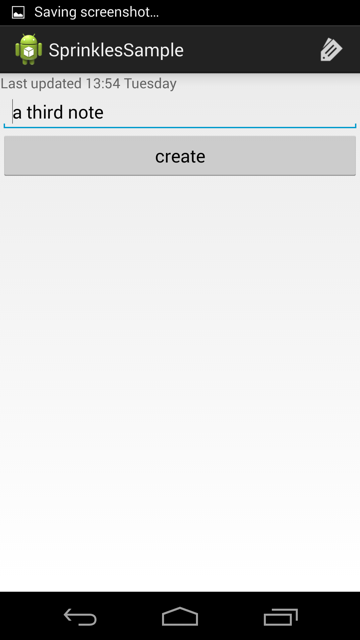
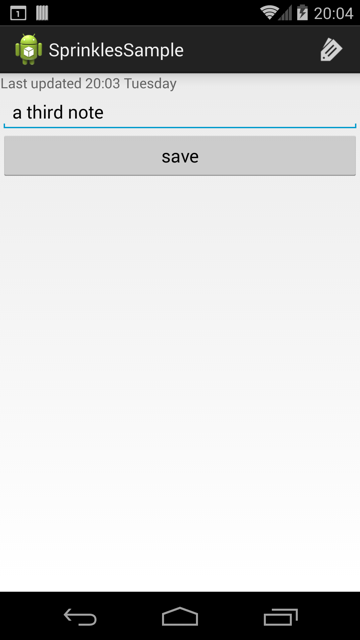
Site updated at 2013-12-17 19:09:38 UTC

diff --git a/blog/2013/12/18/android-with-sprinkles/index.html b/blog/2013/12/18/android-with-sprinkles/index.html
@@ -89,7 +89,7 @@
   </header>
 
 
-<div class="entry-content"><p><a href="https://github.com/emilsjolander/sprinkles">Sprinkles</a> is an android library I made because I was tired of all the boilerplate involved in dealing with SQLite on android. The goal with sprinkles is to remove as much boilerplate as possible without limiting any functionality, this is a crucial point. I find that most ORMs try to abstract away SQL which often leads to unoptimized queries and ugly hacks to get the more uncommon queries to work. Sprinkles lets you do what SQL is great for, querying data. Sprinkles will however help you with the tedious parts like inserting data and packing data out of a cursor.</p>
+<div class="entry-content"><p><a href="https://github.com/emilsjolander/sprinkles">Sprinkles</a> is an android library I made because I was tired of all the boilerplate involved in dealing with SQLite on android. The goal with sprinkles is to remove as much boilerplate as possible without limiting any functionality, this is a crucial point. I find that most ORMs try to abstract SQL in a way which often leads to unoptimized queries and ugly hacks to get the more uncommon queries to work. Sprinkles lets you do what SQL is great for, querying data. Sprinkles will however help you with the tedious parts like inserting data and packing data out of a cursor.</p>
 
 <p>Below I will give you a basic intro into using sprinkles by building a &hellip; note taking app! Nothing new and exiting, I know! But it&rsquo;s a great sample app for showing the power of sprinkles. There&rsquo;s a lot of the api that I don&rsquo;t mention in this post so please head over to github and read the full documentation if you have any questions after reading this.</p>
 
@@ -657,7 +657,7 @@
 
 <h1>Creating notes</h1>
 
-<p>Creating notes is done in the <a href="https://github.com/emilsjolander/sprinkles/tree/master/sample/src/se/emilsjolander/sprinkles/CreateNoteActivity.java"><code>CreateNoteActivity</code></a> class. This is just a regular activity with an edittext and a button for saving the note. Below we set the <code>OnClickListener</code> of the create button. As you can see saving a note is incredibly simple, just call <code>save()</code> after setting the properties you want to set. There is also a <code>saveAsync()</code> method which saves the model in the background and a version of <code>saveAsync()</code> which takes a callback to notify you when the save has completed.</p>
+<p>Creating notes is done in the <a href="https://github.com/emilsjolander/sprinkles/tree/master/sample/src/se/emilsjolander/sprinkles/CreateNoteActivity.java"><code>CreateNoteActivity</code></a> class. This is just a regular activity with an edittext and a button for saving the note. Below we set the <code>OnClickListener</code> of the save button. As you can see saving a note is incredibly simple, just call <code>save()</code> after setting the properties you want to set. There is also a <code>saveAsync()</code> method which saves the model in the background and a version of <code>saveAsync()</code> which takes a callback to notify you when the save has completed.</p>
 
 <figure class='code'><figcaption><span></span></figcaption><div class="highlight"><table><tr><td class="gutter"><pre class="line-numbers"><span class='line-number'>1</span>
 <span class='line-number'>2</span>
@@ -668,7 +668,7 @@
 <span class='line-number'>7</span>
 <span class='line-number'>8</span>
 <span class='line-number'>9</span>
-</pre></td><td class='code'><pre><code class='java'><span class='line'><span class="n">findViewById</span><span class="o">(</span><span class="n">R</span><span class="o">.</span><span class="na">id</span><span class="o">.</span><span class="na">create</span><span class="o">).</span><span class="na">setOnClickListener</span><span class="o">(</span><span class="k">new</span> <span class="n">OnClickListener</span><span class="o">()</span> <span class="o">{</span>
+</pre></td><td class='code'><pre><code class='java'><span class='line'><span class="n">findViewById</span><span class="o">(</span><span class="n">R</span><span class="o">.</span><span class="na">id</span><span class="o">.</span><span class="na">save</span><span class="o">).</span><span class="na">setOnClickListener</span><span class="o">(</span><span class="k">new</span> <span class="n">OnClickListener</span><span class="o">()</span> <span class="o">{</span>
 </span><span class='line'>          
 </span><span class='line'>          <span class="nd">@Override</span>
 </span><span class='line'>          <span class="kd">public</span> <span class="kt">void</span> <span class="nf">onClick</span><span class="o">(</span><span class="n">View</span> <span class="n">v</span><span class="o">)</span> <span class="o">{</span>
